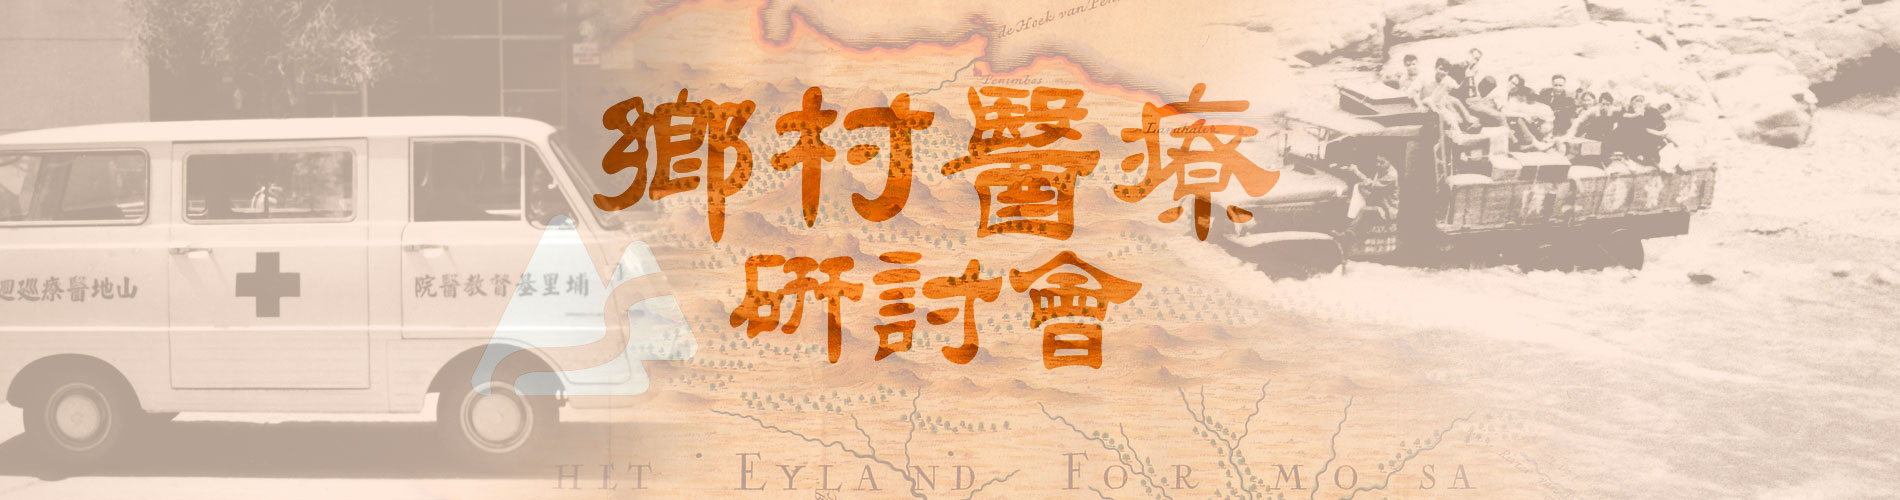
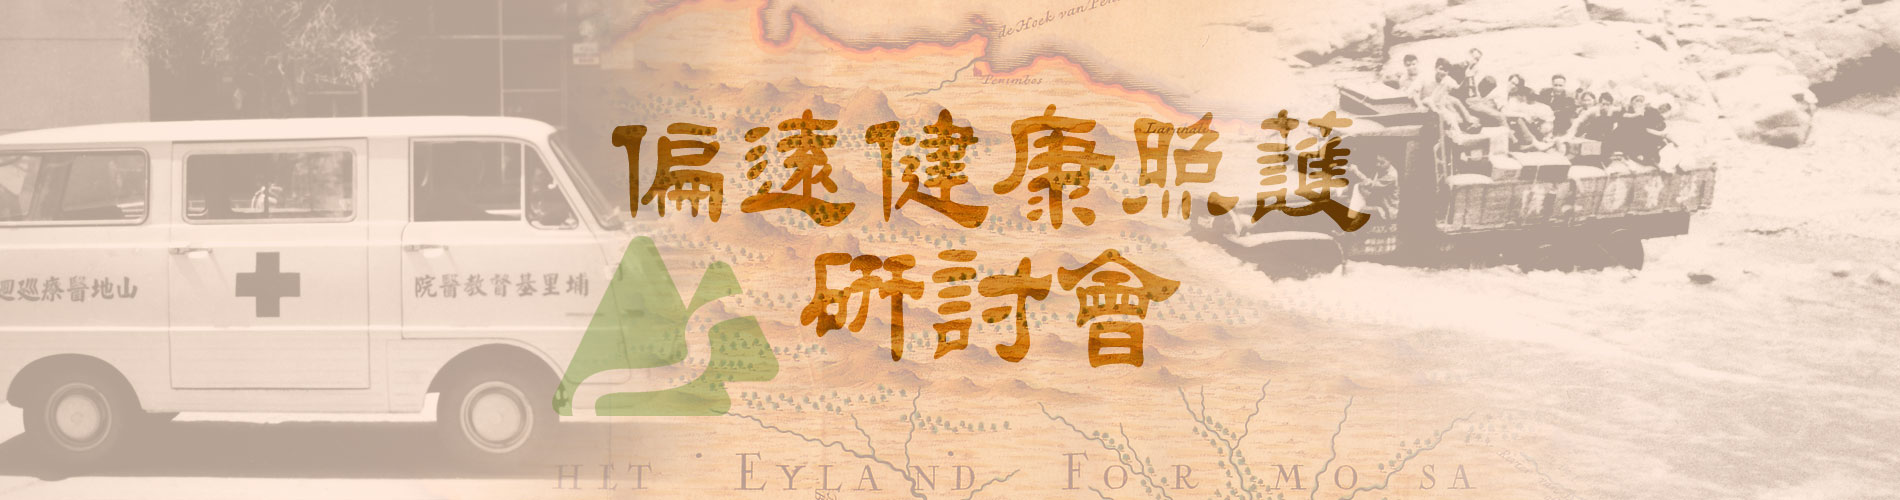
serninar
03252

Changed region(s): [[0.2484, 0.15, 0.7453, 0.84]]

diff --git a/pch60/seminar/index.html b/pch60/seminar/index.html
@@ -9,7 +9,7 @@
     <meta name="description" content="">
     <meta name="author" content="">
 
-    <title>鄉村醫療研討會｜傳愛六十，守護健康｜埔基醫療團法人埔里基督教醫院</title>
+    <title>偏遠健康照護研討會｜傳愛六十，守護健康｜埔基醫療團法人埔里基督教醫院</title>
 
     <!-- Bootstrap Core CSS -->
     <link href="css/bootstrap.min.css" rel="stylesheet">
@@ -43,7 +43,7 @@
                     <span class="icon-bar"></span>
                     <span class="icon-bar"></span>
                 </button>
-                <a class="navbar-brand" href=" ">埔基鄉村醫療研討會</a>
+                <a class="navbar-brand" href=" ">埔基偏遠健康照護研討會</a>
             </div>
             <!-- Collect the nav links, forms, and other content for toggling -->
             <div class="collapse navbar-collapse" id="bs-example-navbar-collapse-1">
